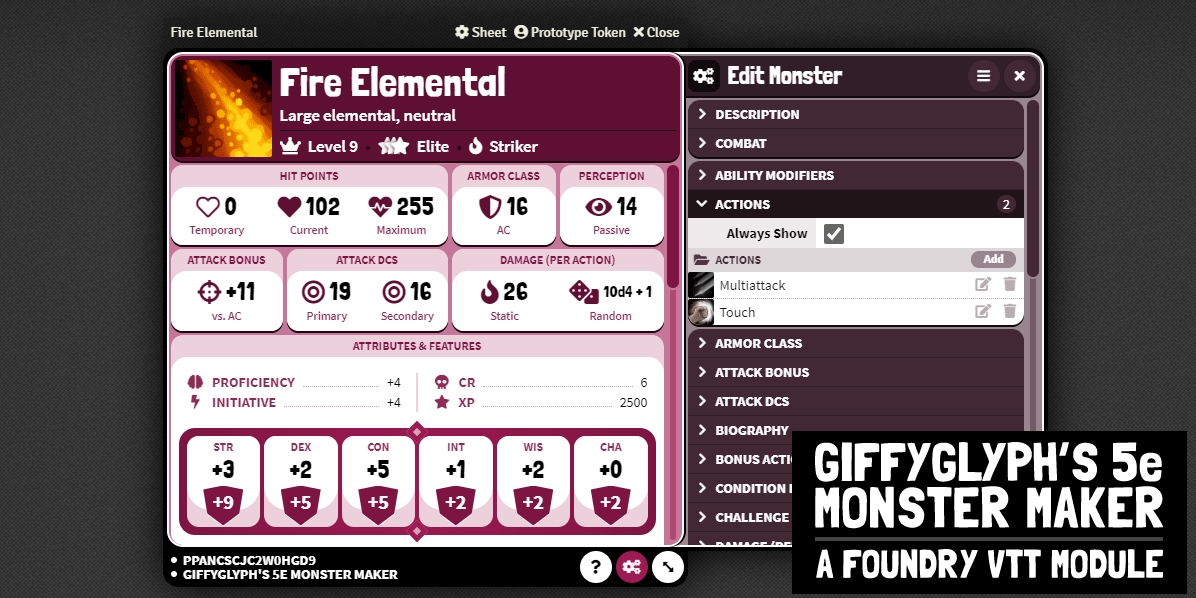
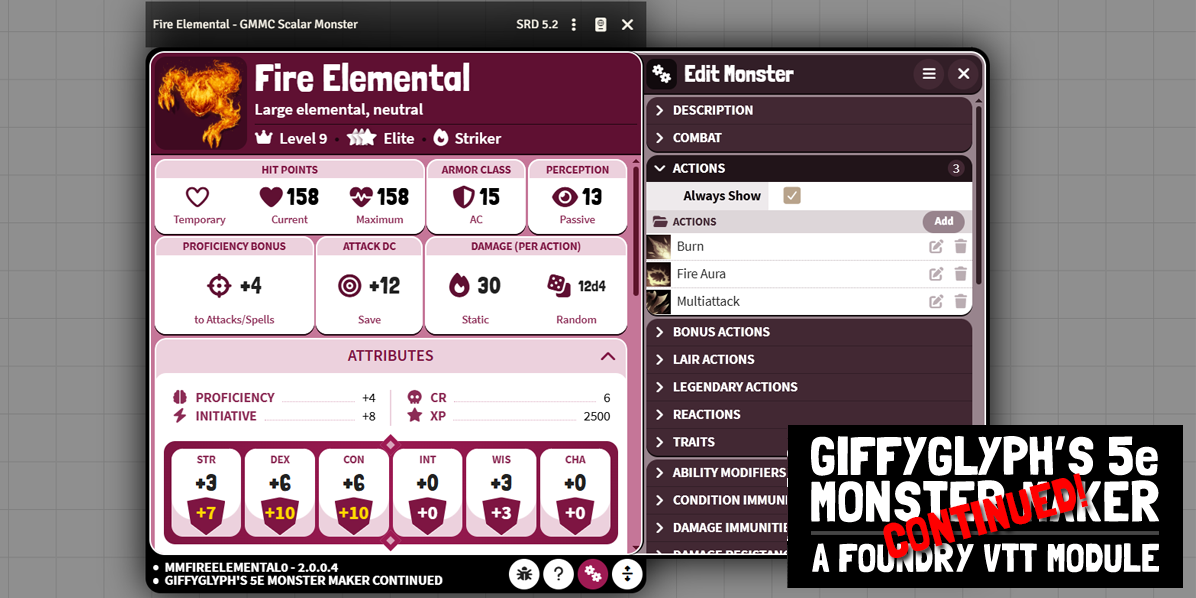
Updated doc screenshots to use GMMC 2.0

diff --git a/docs/README.md b/docs/README.md
@@ -99,7 +99,7 @@ All of these use the same module id, so only **one can be installed on a Foundry
 ### Converting an old Monster
 
 1. Open an existing monster, or import one from the SRD compendium.
-2. Change the active sheet to **"Giffyglyph's 5e Monster Maker"**.
+2. Change the active sheet to **"Giffyglyph's 5e Monster Maker Continued"**.
 3. Change the monster's level, rank, and role to suit the expected encounter.
 
 ### Converting an old Action